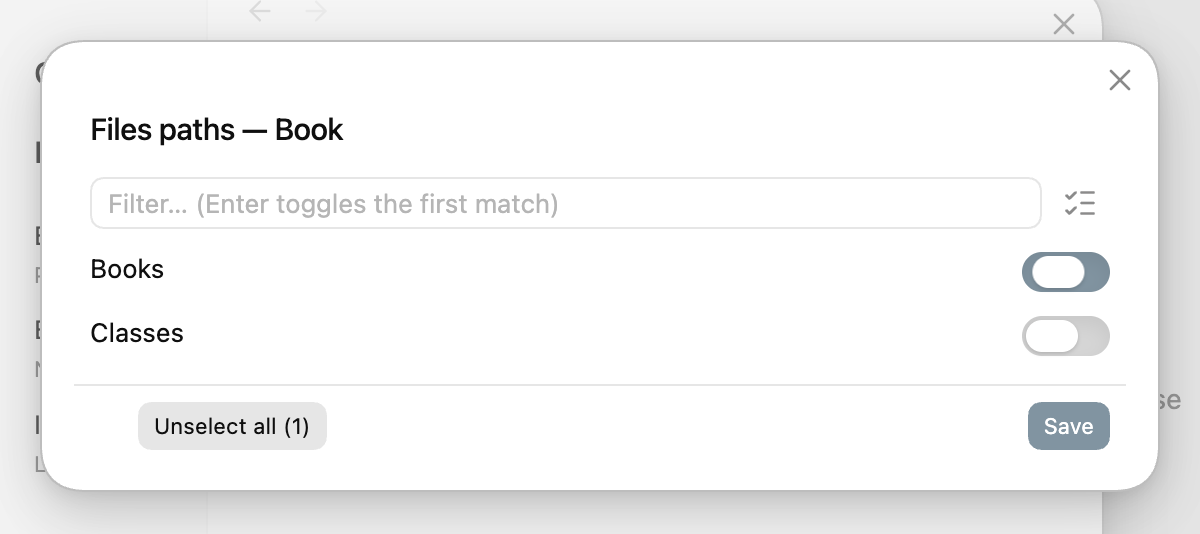
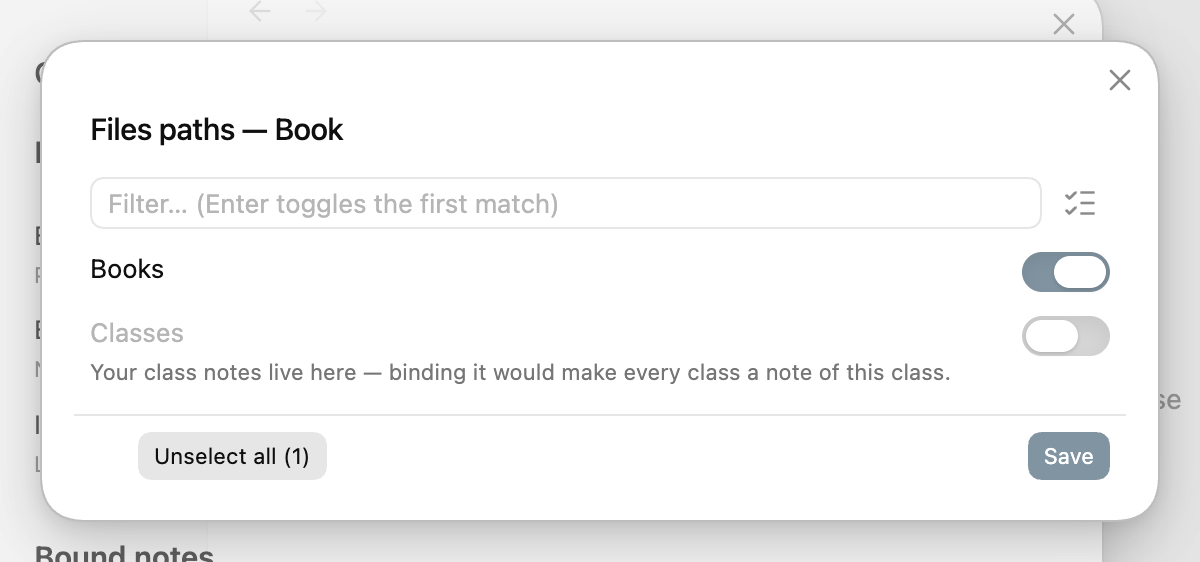
docs: a written quickstart in the README (#92)
Five steps from an empty vault to a note with a working typed field, with a
screenshot on each one that has UI to find — #57's central failure was a reader
unable to locate the interface a sentence referred to.

It lives in the README because the README *is* the community-store description:
someone arriving from the store lands on text, not on a video. Placed after
Installation, its chronological spot, with a pointer in the hero so a store
visitor knows there is a written path in. To keep the store page skimmable, three
sections were trimmed in exchange — the Dataview→Bases rationale, Requirements,
and the migration notes, which now link the docs.

The screenshots are **replayed, not remembered**: `demo/900_quickstart/` holds a
three-note vault with no class folder set, and `node demo/probe.mjs 900
demo/quickstart.mjs` drives the five gestures and writes the PNGs. When the UI
moves, run it again. They are referenced by absolute raw.githubusercontent URL,
because the store breaks relative image paths.

Step 1 has no screenshot: the settings window cannot be opened from the harness
(`app:open-settings` returns, no modal renders) and every Obsidian user knows
where settings are. The text quotes the refusal notice instead, which is the more
useful thing to recognise.

Two caveats sit where the confusion is documented: `Select` values are not the
`Template` option (#91 cost a reader an hour), and the class folder appears greyed
in the folder picker rather than missing.

diff --git a/README.md b/README.md
@@ -22,7 +22,10 @@ properties by hand to a typed library, install and setup included:
 **https://www.youtube.com/watch?v=rScC86I2vlg**
 
 Then one short video per feature, a couple of minutes each:
-[the whole series](https://mdelobelle.github.io/fileclass/videos/).
+[the whole series](https://mdelobelle.github.io/fileclass/videos/) — 44 of them.
+
+📝 **Rather read?** [Your first fileClass in five minutes](#quickstart--your-first-fileclass-in-five-minutes),
+below: five steps, five screenshots, no video.
 
 It is the successor to [Metadata Menu](https://github.com/mdelobelle/metadatamenu)
 (same author). If you rely on Dataview inline fields (`key:: value`), stay on
@@ -30,19 +33,16 @@ Metadata Menu; Fileclass is frontmatter-only.
 
 ## Why Fileclass
 
-Metadata Menu used **Dataview** to feed field values — the allowed values or file
-candidates for a `Select`/`File` field came from a DataviewJS query. Obsidian now
-ships its own query engine, **Bases**, so Fileclass uses that instead: you point a
-field at a `.base` view, and the notes/values that view returns become the
-field's candidates. Field-value filtering runs entirely on core Obsidian.
+Metadata Menu fed field values through **Dataview**. Obsidian now ships its own
+query engine, **Bases**, so Fileclass uses that: point a field at a `.base` view
+and the notes or values it returns become the field's candidates. No Dataview
+dependency, and field-value filtering runs entirely on core Obsidian.
 
-- **No Dataview dependency**, lighter bundle.
 - **Frontmatter-only** — reads via the metadata cache, writes via
   `processFrontMatter`; note text is never parsed or edited.
-- **Rebuilt with quality & security in mind** — full unit-test coverage,
-  TypeScript strict.
 - **Your existing fileClass definitions work as-is** — the Metadata Menu format
   is unchanged.
+- **Rebuilt with quality in mind** — 541 unit tests, TypeScript strict.
 
 ## Features
 
@@ -63,11 +63,9 @@ field's candidates. Field-value filtering runs entirely on core Obsidian.
 
 ## Requirements
 
-- Obsidian **1.12.7+** with the core **Bases** plugin enabled.
-- Schema and typed input work without Bases; query-dependent features
-  (File/Media candidates, generated views) require it. They rely on Bases
-  internals validated on 1.13.2; on older versions they degrade gracefully rather
-  than erroring.
+Obsidian **1.12.7+** with the core **Bases** plugin enabled. Schemas and typed
+input work without Bases; the query-dependent parts (File/Media candidates,
+generated views) need it and degrade gracefully rather than erroring.
 
 ## Installation
 
@@ -79,14 +77,94 @@ To install a build by hand instead, copy `main.js`, `manifest.json` and
 `styles.css` from the [latest release](https://github.com/mdelobelle/fileclass/releases)
 into `<your-vault>/.obsidian/plugins/fileclass/`, then reload Obsidian.
 
+## Quickstart — your first fileClass in five minutes
+
+Five steps, from an empty vault to a note with a working typed field. Everything
+here happens in Obsidian; nothing needs the terminal.
+
+### 1. Tell Fileclass where your classes live
+
+**Settings → Community plugins → Fileclass → Class files folder** — a folder in
+your vault, say `Classes`. It does not have to exist yet.
+
+This one is not optional: until it is set, every command refuses with *"Fileclass:
+set the class files folder in settings first."* A **fileClass** is just a note in
+that folder, and this is where Fileclass looks for them.
+
+### 2. Create a class with one field
+
+Command palette → **Fileclass: create a class**, and name it `Book`. Its schema
+opens; click **Add field** and fill in three things:
+
+- **Name**: `status`
+- **Type**: `Select (single value)`
+- **Add value**, three times: `Reading`, `Read`, `Abandoned`
+
+Then **Save**.
+
+![Adding a Select field named status, with three values](https://raw.githubusercontent.com/mdelobelle/fileclass/main/docs/static/quickstart/02-select-field.png)
+
+> **`Select` values are not the `Template` option.** *Template* (on some types)
+> composes a string like `pg. {{page}}`. The list a `Select` offers lives under
+> **Values source → Inline list**, which is where *Add value* writes.
+
+One field is enough to see the idea. Fileclass has twenty-six types, but a
+`Select` shows the point immediately: from now on, `status` accepts those three
+values and nothing else.
+
+### 3. Point a note at the class
+
+Two ways, and you will use both.
+
+**One note** — open it, then command palette → **Fileclass: add a class to this
+note** → `Book`. The `fileClass` property is written, and the class's fields come
+with it:
+
+![A note's Properties panel showing fileClass Book and an empty status](https://raw.githubusercontent.com/mdelobelle/fileclass/main/docs/static/quickstart/03-bind-note.png)
+
+**A whole folder** — open the class note (`Classes/Book.md`), click **Options** in
+its Properties panel, then **Files paths → Choose…** and tick the folder. Every
+note in it is a Book, with no `fileClass` line to write anywhere:
+
+![The folder picker, with Books ticked and the class folder greyed out](https://raw.githubusercontent.com/mdelobelle/fileclass/main/docs/static/quickstart/04-bind-folder.png)
+
+Your class folder is listed too, greyed: binding it would make every class a note
+*of* a class.
+
+### 4. Fill the field
+
+In the **Properties panel**, the small button between a key and its value opens
+that field's own input — for a `Select`, the values you allowed:
+
+![The status field's picker, offering Reading, Read and Abandoned](https://raw.githubusercontent.com/mdelobelle/fileclass/main/docs/static/quickstart/05-fill-value.png)
+
+A note claimed by a **folder** may have no frontmatter at all yet. The class still
+knows its fields: **Fileclass: manage note fields** lists them, and *Insert missing
+fields* writes the keys in one go.
+
+![The note-fields modal listing status on a note with no frontmatter](https://raw.githubusercontent.com/mdelobelle/fileclass/main/docs/static/quickstart/06-fields-modal.png)
+
+### 5. Where to go from here
+
+That is the whole loop: **a class defines fields, a note is bound to a class, and
+the field's input is guided**. What to reach for next:
+
+- [every field type](https://mdelobelle.github.io/fileclass/fields/) — dates,
+  links, numbers with bounds, nested objects, and `Cycle`, which advances on click;
+- [binding notes](https://mdelobelle.github.io/fileclass/schema/#binding-a-note-to-fileclasses)
+  — by tag, by bookmark group, by a Base view, or one class for the whole vault;
+- [required fields and validation](https://mdelobelle.github.io/fileclass/fields/#required-fields)
+  — which notes are missing what;
+- [generated tables](https://mdelobelle.github.io/fileclass/views/) — one command
+  turns a class into an editable Bases view.
+
 ## Coming from Metadata Menu
 
-Your fileClass notes are read as-is. Two things changed:
-
-- **`Lookup` and `Formula` are out of scope** — use Bases views for reverse
-  relations and computed columns. Existing ones load read-only.
-- **The old FileClassView is replaced by `fileclass-table`** — a Bases view with
-  editable cells.
+Your fileClass notes are read as-is. `Lookup` and `Formula` are out of scope (use
+Bases views for reverse relations and computed columns; existing ones load
+read-only), and the old FileClassView is replaced by `fileclass-table`, a Bases
+view with editable cells. The details are in
+[the docs](https://mdelobelle.github.io/fileclass/positioning/).
 
 > Metadata Menu still works, but **don't run both at the same time**. It is in
 > maintenance mode and won't receive further features.

diff --git a/docs/content/_index.md b/docs/content/_index.md
@@ -36,6 +36,11 @@ library with two classes, guided input, and a candidate list that narrows itself
 
 Then one short video per feature, on the [Videos](videos/) page.
 
+**Rather read?** The
+[written quickstart](https://github.com/mdelobelle/fileclass#quickstart--your-first-fileclass-in-five-minutes)
+takes the same path in five steps and five screenshots: the folder setting, a class
+with one `Select` field, both ways to bind a note, and filling the field in.
+
 ## Documentation
 
 - [Positioning](positioning/) — how Fileclass relates to core Properties, core
